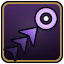
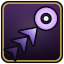
M12 art: power-of-two UI pieces, assetc UI rule for ui/status and ui/skillbar, content tests, SKILL_ART.md manifest, DEVELOPMENT_PLAN §23
assetc's isUiIcon now also compiles ui/status/ and ui/skillbar/ PNGs to premultiplied RGBA8 .vtex
(one-line pipeline change). Pusu icons brightened to pass the icon contrast check.

Changed region(s): [[0.4062, 0.0938, 0.9062, 0.5938], [0.5938, 0.1875, 0.8438, 0.4062], [0.3125, 0.5938, 0.4375, 0.6875]]

diff --git a/tools/blender/gen_skill_art.py b/tools/blender/gen_skill_art.py
@@ -9,7 +9,7 @@ Usage (headless):
 
 Outputs (all straight sRGB alpha PNGs; assetc writes the premultiplied RGBA8 .vtex next to each copy):
   assets_src/ui/skills/<id>.png      64x64 skill icons (rounded badge in the branch colour, gold rim)
-  assets_src/ui/status/<id>.png      48x48 buff / debuff icons (read at 24 px: mip 1 is an exact 2x box)
+  assets_src/ui/status/<id>.png      64x64 buff / debuff icons (drawn at 24-36 px)
   assets_src/ui/skillbar/<id>.png    bar slot frames, overlays, key badge, lock, rank pips, tree
                                      connectors, branch headers, skill point marker
 Contact sheets (not assets; default <repo>/build/art_sheets/m12, git-ignored):
@@ -438,8 +438,8 @@ def icon_sirt_hanceri(cv):
     symbol(cv, splash, shade=lerp_field(np.hypot(x - 0.5, y - 0.82) / 0.2, "#ff6a6a", "#7a1020"), width=0.028)
     for sx in (0.24, 0.76):
         streak = sd_stroke(x, y, [(sx, 0.16), (sx, 0.52)], [0.004, 0.018])
-        symbol(cv, streak, "#c8a8f0", width=0.022)
-    draw_dagger(cv, 0.5, 0.33, 0.5, 0.84, w=0.075, guard=0.14, grip=0.17,
+        symbol(cv, streak, "#eadcff", width=0.022)
+    draw_dagger(cv, 0.5, 0.33, 0.5, 0.84, w=0.075, guard=0.14, grip=0.17, steel=("#ffffff", "#c4cad4"),
                 hilt=("#c8a8e8", "#4a2c6a"))
 
 
@@ -447,14 +447,14 @@ def icon_golge_adimi(cv):
     """Shadow step: three fading violet chevrons leaping up-right into a bright target ring."""
     badge(cv, "pusu")
     x, y = cv.x, cv.y
-    ring = sd_ring(x, y, 0.72, 0.29, 0.13, 0.03)
+    ring = sd_ring(x, y, 0.72, 0.29, 0.13, 0.038)
     symbol(cv, ring, shade=lerp_field(np.hypot(x - 0.72, y - 0.29) / 0.16, "#ffffff", "#d6a8ff"), width=0.028)
     symbol(cv, sd_circle(x, y, 0.72, 0.29, 0.035), "#ffffff", width=0.022)
     for k, (cx, cy, s) in enumerate(((0.23, 0.78, 0.85), (0.37, 0.64, 1.0), (0.51, 0.5, 1.15))):
         rx, ry = rot(x, y, cx, cy, -45)
         ch = sd_polygon(rx, ry, [(cx - 0.12 * s, cy - 0.13 * s), (cx + 0.07 * s, cy), (cx - 0.12 * s, cy + 0.13 * s),
                                  (cx - 0.06 * s, cy), ])
-        col = ["#4a3070", "#7a52b0", "#c49cff"][k]
+        col = ["#5a3a88", "#a07ae0", "#ecdcff"][k]
         col2 = ["#22143a", "#3e2468", "#7040c0"][k]
         symbol(cv, ch, shade=lerp_field((rx - cx + 0.12) / 0.2, col2, col), width=0.03)
 
@@ -828,9 +828,9 @@ def make_icons():
 
 
 # ---------------------------------------------------------------------------------------------
-# Status icons (48x48, read at 24): a round plate, gold rim for buffs, red rim for debuffs.
+# Status icons (64x64, read at 24): a round plate, gold rim for buffs, red rim for debuffs.
 
-STATUS_SIZE = 48
+STATUS_SIZE = 64  # power of two (assetc); drawn at 24-36 px
 BUFF_PLATE = ("#2e3a2a", "#11160f", "#d9ae4a")     # top, bottom, rim
 DEBUFF_PLATE = ("#3e1a1a", "#160808", "#c8402c")
 
@@ -1165,11 +1165,12 @@ def rank_pip(cv, on):
 def rank_strip(n_on, total=3):
     """total pips 16 px apart with 2 px gaps: (16 + 2) * total - 2 wide."""
     w = 18 * total - 2
-    cv = Canvas(w, 16, unit=1)
+    cv = Canvas(64, 16, unit=1)  # 64 wide (power of two), the pips centred
+    off = (64 - w) // 2
     for k in range(total):
         sub_cv = Canvas(16, 16, unit=1)
         rank_pip(sub_cv, k < n_on)
-        cv.rgba[:, k * 18 * SS:(k * 18 + 16) * SS] = sub_cv.rgba
+        cv.rgba[:, (off + k * 18) * SS:(off + k * 18 + 16) * SS] = sub_cv.rgba
     return cv
 
 
@@ -1323,7 +1324,7 @@ def make_ui():
     cv = Canvas(32, unit=1)
     ui_lock_icon(cv)
     save("lock_icon", cv)
-    cv = Canvas(24, unit=1)
+    cv = Canvas(32, unit=32 / 24)  # laid out on a 24 grid, rendered at 32 (power of two)
     ui_key_badge(cv)
     save("key_badge", cv)
     for on in (True, False):
@@ -1338,7 +1339,7 @@ def make_ui():
             connector(cv, segs, lit)
             save(f"{name}_{'lit' if lit else 'unlit'}", cv)
     for key in BRANCH:
-        cv = Canvas(192, 48, unit=1)
+        cv = Canvas(256, 64, unit=256 / 192)  # laid out on a 192x48 grid, rendered at 256x64
         ui_branch_header(cv, key)
         save(f"branch_{key}", cv)
     cv = Canvas(32, unit=1)
@@ -1454,7 +1455,7 @@ def sheet_status(status, path):
 
 
 def sheet_ui(ui, icons, path):
-    W, H = 1000, 520
+    W, H = 1220, 540
     sh = Sheet(W, H, bg=(26, 31, 38))
     x, y = 12, 12
     order = ["slot_back", "slot_frame_normal", "slot_frame_hover", "slot_frame_pressed", "slot_empty",
@@ -1497,9 +1498,9 @@ def sheet_ui(ui, icons, path):
     # Branch headers --------------------------------------------------------------------------
     y = 290
     for k, key in enumerate(BRANCH):
-        sh.place(ui[f"branch_{key}"], 12 + (k % 4) * 200, y + (k // 4) * 56)
+        sh.place(ui[f"branch_{key}"], 12 + (k % 4) * 264, y + (k // 4) * 70)
     # Connectors at 1x and a mock tree --------------------------------------------------------
-    y = 410
+    y = 450
     x = 12
     for lit in ("lit", "unlit"):
         for n in ("tree_v", "tree_h", "tree_elbow_se", "tree_elbow_sw", "tree_elbow_ne", "tree_elbow_nw", "tree_tee_s"):
@@ -1509,7 +1510,7 @@ def sheet_ui(ui, icons, path):
         x += 20
     # Mock tree: a learned node on top, a tee down to two children; the left path is lit (learned),
     # the right child is locked.
-    tx, ty = 880, 300
+    tx, ty = 1110, 120
     sh.place(icons["kalkan_duvari"], tx, ty, 40)
     sh.place(ui["rank_pips_3"], tx - 5, ty + 42)
     sh.place(ui["tree_v_lit"], tx + 12, ty + 58)

diff --git a/tests/assets/content/MonsterTests.cpp b/tests/assets/content/MonsterTests.cpp
@@ -63,7 +63,13 @@ const std::pair<const char*, bool> kMonsterClips[] = {
 
 constexpr std::uint32_t kMonsterTexture = 1024;
 
-const char* const kSkillIcons[] = {"agir_darbe", "cifte_kesik", "koz_oku", "soluk_gunes"};
+const char* const kSkillIcons[] = {
+    "agir_darbe", "cifte_kesik", "koz_oku", "soluk_gunes",
+    // M12 branch skills (tools/blender/gen_skill_art.py)
+    "yarma", "kan_ofkesi", "sarsinti", "kalkan_duvari", "meydan_okuma", "direncli_soluk", "sirt_hanceri",
+    "golge_adimi", "seri_eller", "zehirli_kesik", "sis_bombasi", "kacamak", "yakici_iz", "alev_halkasi",
+    "kor_yagmuru", "kiragi_oku", "buz_kabugu", "donduran_nefes", "yenileyen_isik", "kutlu_siper", "halka_sifasi",
+    "isik_carpmasi", "baglayan_soz", "ofkeli_dua"};
 
 std::vector<Mat4> modelPose(const MeshData& m, const AnimationClip* c, const ClipBinding* binding, float t)
 {
@@ -349,4 +355,48 @@ TEST_CASE("skill icons are 64x64 premultiplied RGBA8 .vtex with transparent corn
             bright += (px[i] > 200 || px[i + 1] > 200) ? 1 : 0;
         CHECK(bright > 64 * 64 / 20);
     }
+}
+
+TEST_CASE("M12 status icons and skill bar pieces compile to premultiplied RGBA8 .vtex", "[content][monsters]")
+{
+    const char* const files[] = {"status/attack_up", "status/poison", "status/stun", "status/taunted",
+                                 "skillbar/slot_frame_normal", "skillbar/slot_empty", "skillbar/slot_locked",
+                                 "skillbar/tree_v_lit", "skillbar/tree_elbow_se_unlit", "skillbar/branch_kiragi",
+                                 "skillbar/rank_pips_3", "skillbar/skill_point_marker"};
+    for (const char* f : files)
+    {
+        INFO(f);
+        TextureData tex;
+        std::string err;
+        REQUIRE(loadTexture(assetDir() / "ui" / vo::core::pathFromUtf8(std::string(f) + ".vtex"), tex, err));
+        CHECK(tex.format == TextureFormat::Rgba8);
+        CHECK(tex.usage == TextureUsage::Color);
+        CHECK(tex.mips.size() > 1);
+    }
+}
+
+TEST_CASE("M12 skill effects: small static emissive meshes", "[content][monsters]")
+{
+    const char* const effects[] = {"frost_bolt",          "ember_mote",          "light_strike",
+                                   "ground_ring_flame",   "ground_ring_frost",   "ground_ring_heal",
+                                   "ground_ring_fog",     "ground_ring_neutral", "shield_bubble_gold",
+                                   "shield_bubble_frost", "shield_bubble_neutral", "buff_aura_gold",
+                                   "buff_aura_red",       "buff_aura_steel",     "buff_aura_green",
+                                   "buff_aura_neutral",   "tick_wisp_burn",      "tick_wisp_poison",
+                                   "stun_marker",         "root_spikes",         "leap_trail"};
+    for (const char* e : effects)
+    {
+        INFO(e);
+        const MeshData m = requireMesh(assetDir() / "effects" / (std::string(e) + ".vmesh"));
+        CHECK_FALSE(m.isSkinned());
+        CHECK(m.indexCount() / 3 <= 800);
+        REQUIRE(m.submeshes.size() == 1);
+        CHECK(m.submeshes[0].emissiveFactor[0] >= 1.0f);
+        CHECK(fs::exists(assetDir() / vo::core::pathFromUtf8(compiledTexturePath(m.submeshes[0].emissiveTexture))));
+    }
+    const MeshData fog = requireMesh(assetDir() / "effects" / "fog_cloud.vmesh");
+    CHECK(fog.indexCount() / 3 <= 800);
+    // The frost bolt points along +Z like the ember bolt (nose in front of the origin, tail behind).
+    const MeshData bolt = requireMesh(assetDir() / "effects" / "frost_bolt.vmesh");
+    CHECK(bolt.boundsMax.z < -bolt.boundsMin.z);
 }

diff --git a/tools/assetc/Build.cpp b/tools/assetc/Build.cpp
@@ -57,12 +57,13 @@ bool underPreviews(const fs::path& rel)
     return false;
 }
 
-// Inventory and skill icons: PNGs directly in ui/items/ or ui/skills/ (ASSET_FORMATS.md §5.1).
+// Inventory, skill and status icons and the skill bar / tree pieces: PNGs directly in ui/items/,
+// ui/skills/, ui/status/ or ui/skillbar/ (ASSET_FORMATS.md §5.1).
 bool isUiIcon(const fs::path& rel)
 {
     std::string dir = lower(core::pathToUtf8(rel.parent_path()));
     std::replace(dir.begin(), dir.end(), '\\', '/');
-    return dir == "ui/items" || dir == "ui/skills";
+    return dir == "ui/items" || dir == "ui/skills" || dir == "ui/status" || dir == "ui/skillbar";
 }
 
 bool collect(const fs::path& root, std::vector<Item>& items, std::string& error)

diff --git a/tools/assetc/Build.h b/tools/assetc/Build.h
@@ -3,7 +3,7 @@
 // Rules (sorted path order, deterministic):
 //   1. **/*.png copied verbatim, except under a directory named `previews` and in directories that
 //      contain a *.terrain.toml (terrain inputs are baked into the .vterrain). PNGs directly in
-//      ui/items/ (inventory icons) also get `<stem>.vtex`: RGBA8, premultiplied alpha, full mips.
+//      ui/items/ (inventory icons; also ui/skills/, ui/status/, ui/skillbar/) also get `<stem>.vtex`: RGBA8, premultiplied alpha, full mips.
 //   2. **/*.glb|*.gltf -> <rel>/<stem>.vmesh, plus <rel>/<stem>/<clip>.vanim when it has animations
 //      (sidecar <stem>.anims.toml).
 //   3. **/<name>.terrain.toml -> <rel>/<name>.vterrain; afterwards every placement mesh and layer

diff --git a/docs/SKILL_ART.md b/docs/SKILL_ART.md
@@ -1,0 +1,115 @@
+# M12 "Yetenek Yolları" — skill art manifest
+
+Everything here is generated by committed scripts (`tools/blender/gen_skill_art.py`,
+`tools/blender/gen_skill_effects.py`, run headless by `tools/blender/build_all.ps1`); nothing was
+downloaded. Asset paths below are runtime paths under `assets/` (the client loads `<path>.png`, the
+asset cache picks the compiled premultiplied `.vtex` next to it).
+
+## 1. Skill icons — `ui/skills/<id>.png` (64², same badge style as the M9 four)
+
+Rounded badge in the **branch colour**, gold rim, dark-outlined symbol. Draw at 48 px on the bar
+(also fine at 32 px in tooltips).
+
+| Class | Branch (badge colour) | id | Symbol |
+|---|---|---|---|
+| Savaşçı | Hücum (warm red) | `yarma` | broad axe inside a nearly closed sweeping arc |
+| | | `kan_ofkesi` | blood drop with an up arrow |
+| | | `sarsinti` | war hammer striking a starburst, two dizzy stars |
+| | Siper (blue-grey, bronze symbols) | `kalkan_duvari` | three overlapping shields, up chevron |
+| | | `meydan_okuma` | war horn with three sound waves |
+| | | `direncli_soluk` | three calm breath streams curling, small green cross |
+| Haydut | Pusu (dark violet, steel) | `sirt_hanceri` | broad dagger plunging point-down into a red splash |
+| | | `golge_adimi` | three violet chevrons leaping into a target ring |
+| | | `seri_eller` | three daggers as a spinning pinwheel |
+| | Zehir (sickly green) | `zehirli_kesik` | one curved slash dripping green drops |
+| | | `sis_bombasi` | iron bomb with lit fuse over a green fog cloud |
+| | | `kacamak` | leaping figure with two fading after-images |
+| Büyücü | Köz (ember orange) | `yakici_iz` | three flames growing along a scorched streak |
+| | | `alev_halkasi` | flames standing round a burning ground ring, dark caster inside |
+| | | `kor_yagmuru` | five ember comets falling onto a burning ground line |
+| | Kırağı (pale frost blue) | `kiragi_oku` | faceted ice spear with frost motes |
+| | | `buz_kabugu` | faceted hexagonal ice crystal |
+| | | `donduran_nefes` | frost breath cone with a snowflake, ice spikes below |
+| Şifacı | Şifa (pale gold) | `yenileyen_isik` | two-leaf sprout in a ring of light |
+| | | `kutlu_siper` | pale shield with a heart, halo above |
+| | | `halka_sifasi` | glowing ground ring, three crosses rising |
+| | Yargı (ivory stone, white / amber) | `isik_carpmasi` | lance of light into a four-pointed burst |
+| | | `baglayan_soz` | two chain links across an amber rune circle |
+| | | `ofkeli_dua` | sword point-up through a radiant halo |
+
+## 2. Skill bar and tree — `ui/skillbar/<name>.png`
+
+Palette from `client/ui/Theme.h` (dark panel, gold `#C9A247` / `#D9AE4A`, bronze border `#7A6236`).
+
+**Slot geometry**: every slot piece is 64², the icon window is the rounded rect (6, 6)–(58, 58),
+radius 7 → draw the icon at `slot × 52/64`, centred (48 px icon → 59 px slot; 64 px icon → 79 px).
+Layer order per slot: `slot_back` → icon → overlays (`slot_cooldown` sweep / `slot_nomana` /
+`slot_locked`) → `slot_frame_<state>` → `key_badge` + digit → rank pips.
+
+| Name | Size | Use |
+|---|---|---|
+| `slot_back` | 64² | recessed well under the icon |
+| `slot_frame_normal`, `slot_frame_hover`, `slot_frame_pressed` | 64² | ring over the icon (transparent window); hover adds a warm glow into the icon edge; pressed is darker with an inner top shadow |
+| `slot_empty` | 64² | complete empty slot (well + dim frame + faint diamond); draw alone |
+| `slot_cooldown` | 64² | window-shaped dark veil (alpha 0.66). The client already draws a clockwise sweep in code (M9); either keep that and use this as the colour/shape reference, or draw this texture clipped to the remaining sector |
+| `slot_nomana` | 64² | "not enough mana": window-shaped cold blue tint with a blue inner edge. Guidance: draw it over the icon and also multiply the icon by about (0.55, 0.6, 0.85) — never grey it out completely (grey means cooldown / dead) |
+| `slot_ready_flash` | 64² | gold-white glow hugging the window; flash ~0.25 s (alpha 1 → 0) when a cooldown ends |
+| `slot_locked` | 64² | window veil + padlock (skill not learned / level too low) |
+| `lock_icon` | 32² | padlock alone (tree nodes, tooltips) |
+| `key_badge` | 32² | dark plate with bronze rim for the key digit; draw at ~18–20 px over the slot's top-left corner, digit centred in Theme `text` colour |
+| `rank_pip_on`, `rank_pip_off` | 16² | single rank diamond |
+| `rank_pips_0` … `rank_pips_3` | 64×16 | three pips centred (52 px used), N lit; draw under the slot / tree node |
+| `tree_v_lit/_unlit` | 16×32 | vertical connector; tiles vertically (stretch or repeat) |
+| `tree_h_lit/_unlit` | 32×16 | horizontal connector; tiles horizontally |
+| `tree_elbow_se/_sw/_ne/_nw` + `_lit/_unlit` | 16² | corners; the letters name the two edges joined (s = bottom, n = top, e = right, w = left) |
+| `tree_tee_s_lit/_unlit` | 16² | left + right + down |
+| `branch_<key>` | 256×64 | branch header plaque: medallion with emblem on the left (circle centre (32, 32), radius 30), name plate to its right — write the branch name from x ≈ 70 px, vertically centred, `textTitle` colour. Keys: `hucum`, `siper`, `pusu`, `zehir`, `koz`, `kiragi`, `sifa`, `yargi` |
+| `skill_point_marker` | 32² | gold disc in the M11 unspent-points style (`FFE08A → C98A1E`, rim `5A3A08`) with a dark four-pointed star: "skill point available" (pulse it like the M11 marker) |
+| `skill_point_marker_blank` | 32² | the same disc without the star, for a number drawn on it |
+
+Connector lines run through the track centre (x or y = 8 px) and reach the edges flat, so pieces
+butt together without seams. Lit = learned path (gold core, glow), unlit = not yet.
+
+## 2b. Status icons — `ui/status/<name>.png` (64², read at 24 px)
+
+Round-cornered plate: **gold rim = buff, red rim = debuff**; "up" buffs carry a small green arrow
+bottom-right, `weakened` a red down arrow. Draw at 24 px (mip 1 → linear), 36 px at 150 % UI.
+
+Buffs: `attack_up`, `defense_up`, `attack_speed_up`, `dodge_up`, `max_hp_up`, `heal_over_time`,
+`shield`. Debuffs: `burn`, `poison`, `slow`, `stun`, `root`, `weakened`, `taunted`.
+
+## 3. Effects — `effects/<name>.vmesh`
+
+All static, single material, base colour + emissive gradient maps (`<name>.png`, `<name>_e.png`),
+drawn with `WorldRenderer::addEffectMesh` (opaque, no shadow). **Tint caveat**: `addEffectMesh`'s
+tint multiplies the base colour only; the emissive (most of what you see) is not tinted. Hence the
+pre-coloured variants; `_neutral` variants are greyscale and become freely tintable if the renderer
+also multiplies the emissive factor by the tint for effects (one-line change, client agent's call).
+Engine axes: +Y up, +Z forward. "Origin" is the mesh origin.
+
+| Asset | Tris | Size (engine) / origin | Skill(s) | Attach / motion | Scale · duration |
+|---|---|---|---|---|---|
+| `frost_bolt` | 42 | 0.55 m along Z, nose at +0.11, faceted, 3 swept shards; origin at the widest ring | `kiragi_oku` | like `ember_bolt`: from the caster's hand height to the target chest, nose along flight; spin about Z ~2 turns/s | 1.0 · flight 0.25–0.35 s |
+| `ember_mote` | 72 | 0.32 m along Z, nose at +0.08 | `kor_yagmuru` (×8–12), also sparks for `yakici_iz` | spawn 6–8 m above random points in the area, fall along (−0.3…0.3, −1, …) pointing nose along the fall; despawn at the ground (put a short `ground_ring_flame` flash at 0.3 scale where it lands if budget allows) | 0.8–1.3 random · fall 0.5–0.8 s, staggered over the cast |
+| `light_strike` | 68 | 4 m tall lance on the ground, 4-fin burst (1.5 m) and a flat 8-point ground star; origin on the ground | `isik_carpmasi` | at the target's feet | scale Y 0 → 1 in 0.08 s, hold 0.12 s, then XZ → 0 over 0.25 s |
+| `ground_ring_flame` | 144 | ring r 0.86–1.0 m, 24 standing teeth 0.12/0.2 m; origin ground centre | `alev_halkasi` (r = skill radius), landing flashes for `kor_yagmuru` | at the caster's / area centre, 0.02 m above the ground; rotate slowly about Y (~20°/s) | XZ = radius, Y 1 · skill duration, scale-in 0.15 s |
+| `ground_ring_frost` | 144 | same | `donduran_nefes` (in front of the caster), `buz_kabugu` cast flash | same | radius · 0.6 s flash |
+| `ground_ring_heal` | 144 | same | `halka_sifasi`, `yenileyen_isik` cast | same | radius · 0.8 s |
+| `ground_ring_fog` | 144 | same, dull green (strength 1.4) | `sis_bombasi` area edge | at the impact point | radius · fog duration |
+| `ground_ring_neutral` | 144 | greyscale | any area marker (targeting preview) | | |
+| `shield_bubble_gold` | 720 | geodesic lattice, r 1 m, centre 1 m above the origin (origin = feet) | `kutlu_siper`, `kalkan_duvari` (short flash) | at the character's feet; rotate slowly | 1.0 (Aydor), 1.1 (Kargan) · while the buff lasts, or 0.6 s flash |
+| `shield_bubble_frost` | 720 | same, ice blue | `buz_kabugu` (absorb shield) | same | same · until the shield breaks |
+| `shield_bubble_neutral` | 720 | greyscale | other shields | | |
+| `buff_aura_gold` | 160 | ground ring r 0.5–0.56 m + 12 motes (crossed diamonds) up to 1.6 m; origin feet | `ofkeli_dua`, generic attack up | at the feet; rotate about Y ~45°/s, motes rise with it | 1.0 · 1.2 s on cast, then optional faint loop |
+| `buff_aura_red` | 160 | same | `kan_ofkesi` | same | same |
+| `buff_aura_steel` | 160 | same | `kalkan_duvari`, `direncli_soluk`, `meydan_okuma` | same | same |
+| `buff_aura_green` | 160 | same | `seri_eller`, `kacamak` | same | same |
+| `buff_aura_neutral` | 160 | greyscale | anything else | | |
+| `tick_wisp_burn` | 60 | 0.3 m tall flame wisp pointing +Y, origin at its base | `yakici_iz` ticks, burn status | at chest height (~1.2 m), random ±0.2 m; rise 0.4 m and scale 1 → 0.3 | 1.0 · 0.6 s per tick |
+| `tick_wisp_poison` | 60 | same, green | `zehirli_kesik` ticks, poison status | same | same |
+| `stun_marker` | 192 | three 4-point stars on a 0.2 m ring (crossed, double-sided); origin ring centre | `sarsinti` stun | head top + 0.25 m (≈ 2.05 m Aydor, 2.25 m Kargan); spin about Y ~180°/s | 1.0 · stun duration |
+| `root_spikes` | 28 | 7 ice spikes round the feet, r ≈ 0.35 m, ≤ 0.38 m tall; origin ground | `donduran_nefes` root | at each rooted target's feet | scale Y 0 → 1 in 0.1 s · root duration, sink 0.2 s at the end |
+| `leap_trail` | 64 | crossed ribbon, head at the origin, 1 m long tail along −Z; violet edges, dark core | `golge_adimi` | origin at the arrival point, oriented to the leap direction, chest height (0.9 m) | scale Z = leap distance · fade by scaling X/Y → 0 over 0.3 s |
+| `fog_cloud` | 448 | 7 lumpy puffs, r ≈ 1 m, 0.7 m high; **lit, no emissive** (base `#C4CEB0`): the renderer tint works on it directly | `sis_bombasi` | at the impact point, together with `ground_ring_fog` | XZ = radius, Y 0.8–1 · fog duration; slow Y rotation |
+
+Contact sheets (not committed): `build/art_sheets/m12/m12_{icons,status,ui,effects}.png`.

diff --git a/docs/DEVELOPMENT_PLAN.md b/docs/DEVELOPMENT_PLAN.md
@@ -506,3 +506,34 @@ kapsandı; küçük yazı tipinde (Small, özellikle %150) "ırı" harf dizisi y
 çiftleri yüzünden "n" gibi okunuyor ("Saldırı" → "Saldın"; metin doğru, yalnız görüntü; yazı
 oluşturucuya dokunulmadı); onay sorusu bağlantı başına bir kez (karakter seçimine dönmek yeni
 bağlantı sayılmaz).
+
+## 23. M12 "Yetenek Yolları" — sanat durumu (2026-11-17)
+
+Hepsi prosedürel: `tools/blender/gen_skill_art.py` (2B) ve `tools/blender/gen_skill_effects.py` (efektler),
+`build_all.ps1`'de `gen_effects.py`'den sonra. İndirme, dış üretici, hazır doku / yazı tipi / model
+yok; başka bir oyundan simge ya da ad örneklenmedi. İstemcinin bağlaması için ad, boyut, katman sırası
+ve efekt bağlama noktalarının tamamı `docs/SKILL_ART.md`'de. Oyun / sunucu / istemci koduna
+dokunulmadı.
+
+| Konu | Ne var | Nasıl doğrulandı |
+|---|---|---|
+| Beceri ikonları | 24 yeni 64² ikon `ui/skills/<id>.vtex`; M9'un dört ikonuyla aynı çizici (`gen_effects.py`'nin SDF rozeti, altın kenar, koyu çizgili sembol), rozet rengi **dala göre**: Hücum kırmızı, Siper mavi-gri, Pusu koyu mor, Zehir hastalıklı yeşil, Köz kor turuncusu, Kırağı soluk buz mavisi, Şifa soluk altın, Yargı fildişi taş | 64 ve 48 px'te çubuk yuvası içinde temas sayfası (`m12_icons.png`), 3× büyütme (`m12_icons_zoom.png`), `content` testi (64², önceden çarpılmış, köşeler saydam, okunur kontrast) |
+| Durum ikonları | 14 adet `ui/status/<ad>.vtex` (64², 24 px'te okunur): güçlendirme altın kenarlı (saldırı, savunma, saldırı hızı, kaçınma, azami can, zamanla iyileşme, kalkan), zayıflatma kırmızı kenarlı (yanma, zehir, yavaşlama, sersemleme, kök, zayıflama, kışkırtılma) | `m12_status.png` (48 ve 24 px, portre altı sıra), `content` testi |
+| Çubuk / ağaç arayüzü | `ui/skillbar/`: yuva arka planı, çerçeve normal / üstünde / basılı, boş yuva, bekleme perdesi, "mana yetmiyor" tonu, hazır parlaması, kilit örtüsü + küçük kilit, tuş rozeti, rütbe elmasları (tek ve 0–3 şerit), ağaç bağlantıları (dikey, yatay, dört dirsek, T; yanık / sönük), 8 dal başlığı (256×64, madalyon + ad levhası), "beceri puanı var" işareti (M11 altın diskiyle aynı renkler, dört köşeli yıldızlı ve boş) | `m12_ui.png` (tüm parçalar, örnek çubuk, örnek ağaç), `content` testi |
+| Efektler | 22 küçük ışımalı mesh `effects/`: `frost_bolt` (42 üçgen), `ember_mote` (72), `light_strike` (68), `ground_ring_{flame,frost,heal,fog,neutral}` (144), `shield_bubble_{gold,frost,neutral}` (720, jeodezik kafes), `buff_aura_{gold,red,steel,green,neutral}` (160), `tick_wisp_{burn,poison}` (60), `stun_marker` (192), `root_spikes` (28), `leap_trail` (64), `fog_cloud` (448, ışımasız, aydınlatmalı) | `m12_effects.png` (EEVEE, 1.8 m ölçek figürüyle), `content` testi (statik, ≤ 800 üçgen, ışıma haritası derlenmiş, buz oku +Z'ye bakıyor) |
+| Boru hattı | assetc UI ikon kuralı `ui/status/` ve `ui/skillbar/`'ı da kapsıyor (`tools/assetc/Build.cpp` `isUiIcon`, tek satır); bu kural kenarı ikinin kuvveti olmayan PNG'yi reddettiği için başlıklar 256×64, tuş rozeti 32², rütbe şeritleri 64×16 | `build-assets.ps1 -Config Debug`, `build.ps1 -Test` |
+
+**Yeniden üretme**: `powershell -File tools/blender/build_all.ps1` (hepsi) ya da tek tek
+`blender --background --factory-startup --python tools/blender/gen_skill_art.py -- [--only icons|status|ui] [--sheets <klasör>]`
+ve `... gen_skill_effects.py -- [--sheets <klasör>] [--no-preview]`. Temas sayfaları varlık değil:
+varsayılan `build/art_sheets/m12/` (git dışı). İkinci çalıştırma kaynakları bayt bayt aynı bırakıyor.
+
+**Bilinen zayıf noktalar**: `kacamak` (zıplayan figür + iki silik kopya) 48 px'te okunuyor ama
+"acil çıkış" levhasındaki koşan adamı andırıyor; `alev_halkasi` 48 px'te kalabalık (on alev dili +
+küçük figür); `yakici_iz` ile `kor_yagmuru` aynı turuncu rozette en yakın çift (biri yükselen üç alev,
+öbürü düşen beş kuyruklu yıldız: ayrılıyor ama ilk bakışta değil); `direncli_soluk`'un nefes çizgileri
+ince. Efektlerde `fog_cloud` aydınlatmalı düz kümeler olduğu için sis değil gri-yeşil kayalara benziyor
+(saydamlık yok: `addEffectMesh` opak çiziyor); `shield_bubble` opak çubuklu bir kafes (saydam baloncuk
+yerine); `addEffectMesh` tonu yalnız taban rengini çarptığından renkli çeşitler ayrı dosya, `_neutral`
+çeşitleri ancak istemci ışımayı da tonla çarparsa serbestçe renklenir (istemci ajanının kararı).
+Efektler motorda görülmedi, yalnız Blender'da; yaşam süreleri / ölçekler `SKILL_ART.md`'de öneri.

diff --git a/tools/blender/README.md b/tools/blender/README.md
@@ -13,6 +13,8 @@ add content: [docs/ASSET_PIPELINE.md](../../docs/ASSET_PIPELINE.md).
 | `gen_weapons.py` (`--prepare <raw dir>` once per new raw source) | `source_meshes/weapons/<name>.glb` → `assets_src/weapons/<name>.glb` + maps (grip frame), `assets_src/ui/items/<name>.png` (128² icons), `previews/weapons/<name>.png` |
 | `gen_attachments.py` | `gamedata/attachments.toml` (weapon in hand per grip / look / hand) and `previews/weapons/hold_<look>[_hands].png` |
 | `gen_character.py --look <race>_<n>` (or `--race <race>`; `--debug <dir>` adds weight renders) | import-rig-export of `source_meshes/<race>_<n>_tripo.glb` → `assets_src/characters/<race>_<n>.glb` + `.png` / `_n.png` / `_orm.png` + `.anims.toml` (three looks per race; look 0 also as the legacy `<race>.glb` / `.anims.toml`) |
+| `gen_skill_art.py` (`--only icons\|status\|ui`, `--sheets <dir>`) | M12: 24 branch skill icons (`assets_src/ui/skills/`), buff / debuff icons (`ui/status/`), skill bar / tree pieces (`ui/skillbar/`); contact sheets to `build/art_sheets/m12` (see `docs/SKILL_ART.md`) |
+| `gen_skill_effects.py` (`--sheets <dir>`) | M12: skill effect meshes in `assets_src/effects/` (manifest: `docs/SKILL_ART.md` §3) |
 | `gen_terrain.py` | `assets_src/terrain/zone1/*` (heightmap, splat, walk mask, description) |
 | `measure_ual_speeds.py` | prints the root-motion ground speed of the UAL loops (needs the uncommitted `_RM` file) |
 | `source_meshes/weapons/` | the eight Tripo H3.1 weapons, reduced to 40k triangles with their embedded images unchanged (raw files outside the repo), `<name>_ref.png` concept images |

diff --git a/docs/ASSET_PIPELINE.md b/docs/ASSET_PIPELINE.md
@@ -673,6 +673,20 @@ axe, the staffs and the keep sword).
 preview byte for byte. Content checks: `tests/assets/content/LootTests.cpp` (`content.loot bag…`,
 `content.loot icons…`, `content.weapon icon variants…`).
 
+## 4e. Skill art (`gen_skill_art.py`, `gen_skill_effects.py`, M12 "Yetenek Yolları")
+
+Fully procedural, no downloads. `gen_skill_art.py` reuses the M9 SDF icon painter of
+`gen_effects.py` (badge, outlines, 4× supersampling) through a canvas of any size and writes the 24
+branch skill icons (`ui/skills/`, 64²), 14 status icons (`ui/status/`, 64², read at 24 px) and the
+skill bar / tree pieces (`ui/skillbar/`, power-of-two sizes: assetc's UI-icon rule rejects others).
+`gen_skill_effects.py` builds 22 small emissive effect meshes in `assets_src/effects/` with the
+ember-bolt material recipe (tiny base + emissive gradients). The assetc UI-icon rule now also covers
+`ui/status/` and `ui/skillbar/` (premultiplied RGBA8 `.vtex`, full mips). Contact sheets go to
+`build/art_sheets/m12/` (`--sheets <dir>` overrides), not into `assets_src/previews/`. Every name,
+size, layer order and effect attach point: [SKILL_ART.md](SKILL_ART.md). Both scripts are
+deterministic (a re-run leaves the sources byte-identical). Content checks:
+`tests/assets/content/MonsterTests.cpp` (`skill icons…`, `M12 status icons…`, `M12 skill effects…`).
+
 ## 5. Terrain (`tools/blender/gen_terrain.py`, zone 1)
 
 * 513² heightmap over 512 m (1 m spacing), 16-bit PNG; stored height range [4, 92] m.

diff --git a/docs/ASSET_FORMATS.md b/docs/ASSET_FORMATS.md
@@ -403,8 +403,9 @@ format not allowed for the usage, reserved fields, CRC), like the other formats
 ### 5.1 UI images with alpha: inventory icons (`ui/items/*.vtex`)
 
 PNGs directly in `assets_src/ui/items/` (the item icons, `gamedata/items.toml` `icon` →
-`ui/items/<icon>.vtex`) and in `assets_src/ui/skills/` (the 64² skill icons, `ui/skills/<id>.vtex`,
-7 mips) are copied like every PNG **and** compiled to `<icon>.vtex` next to the copy,
+`ui/items/<icon>.vtex`), in `assets_src/ui/skills/` (the 64² skill icons, `ui/skills/<id>.vtex`,
+7 mips) and, since M12, in `assets_src/ui/status/` (64² buff / debuff icons) and
+`assets_src/ui/skillbar/` (skill bar / tree pieces; every side a power of two) are copied like every PNG **and** compiled to `<icon>.vtex` next to the copy,
 with a different recipe from the material textures (the file layout above is unchanged):
 
 | Field | Value | Why |
